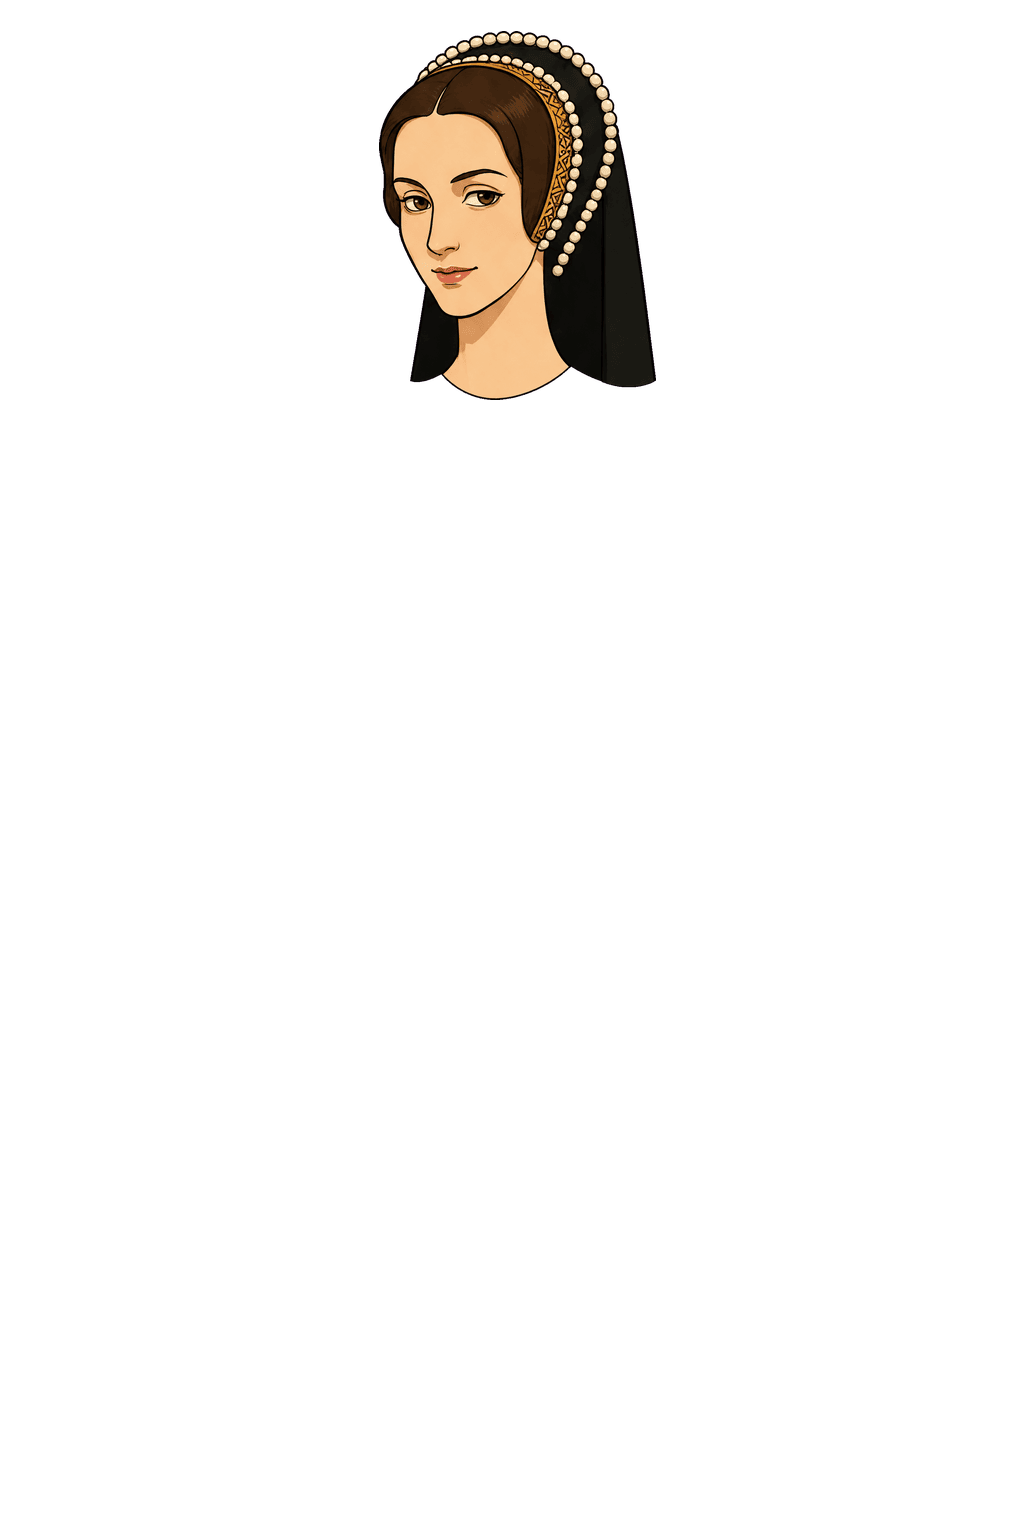
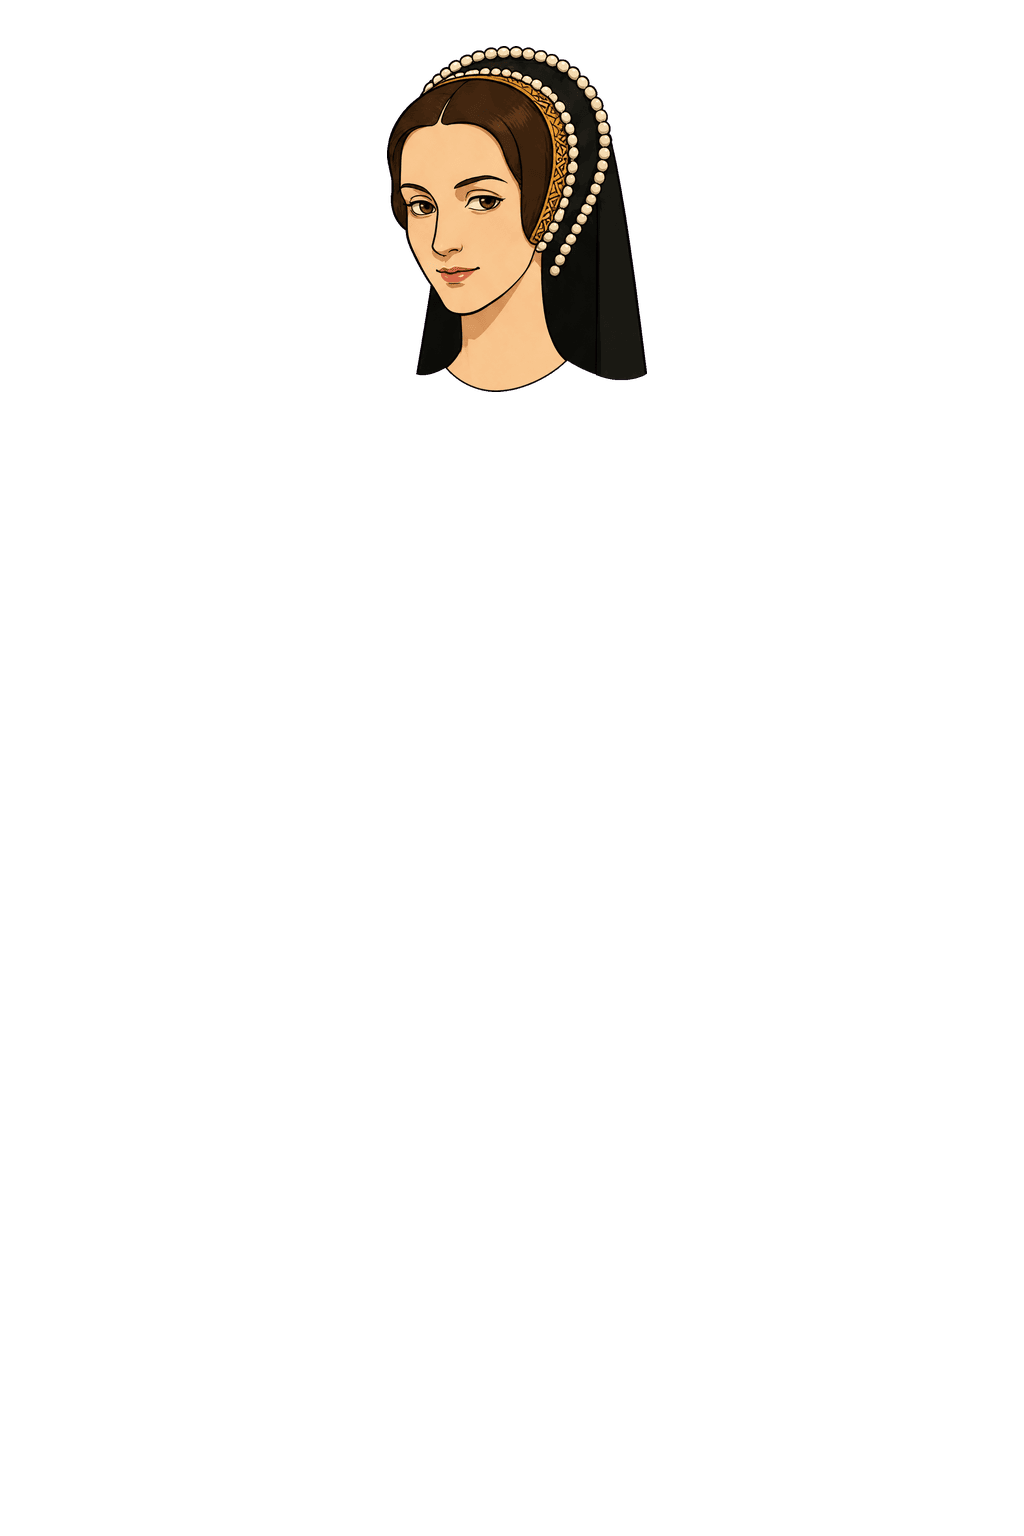
fix(story): 雙人同框不重疊、sprite 放大、安妮頭身比與湯瑪士左臂微調
sprite 幾何全面改以 .scene 容器百分比定位：原本用 vw 定寬定位，
但 .scene 鎖 max-width 480px，寬螢幕上兩個 sprite 會擠進場景中央
重疊。單人放大為 72% 寬；雙人（:has(+ .sprite) 與 + .sprite）縮為
58% 並以 -10% 靠邊；.scene 加 overflow: hidden 防止靠邊 overshoot
撐寬行動端 layout viewport。素材端微調安妮 head（0.225 高、下移）
與湯瑪士 left-arm（上移內收接肩）。CONTENT_VERSION bump 到 3。
headless Chrome 驗證單人/雙人於 500 與 1200 視窗皆正確。

Changed region(s): [[0.375, 0.0, 0.625, 0.2812], [0.5312, 0.1875, 0.6562, 0.25]]

diff --git a/story/src/styles/character.css b/story/src/styles/character.css
@@ -1,13 +1,13 @@
 .sprite {
   position: absolute;
   bottom: 0;
-  /* Registered layers letterbox inside this box (contain, bottom-anchored),
-     so the visible figure height is min(height, width * 1.5) — the box is
-     wider than the old cutout-box layout to keep the figure a similar size. */
-  width: 56vw;
-  max-width: 360px;
-  height: 60vh;
-  max-height: 480px;
+  /* Size and offsets are percentages of .scene, never viewport units: .scene
+     is capped at 480px, so vw-based geometry drifts apart from it on wide
+     screens (two fixed-width sprites then pile up in the middle). Registered
+     layers letterbox inside this box (contain, bottom-anchored), so the
+     visible figure height is min(height, width * 1.5). */
+  width: 72%;
+  height: 66%;
   animation: fade-slide-in 0.6s ease-out both;
   /* Purely decorative: being position:absolute, this box paints above the
      non-positioned .text-card/.choice-list regardless of DOM order, so
@@ -16,8 +16,19 @@
   pointer-events: none;
 }
 
+/* Two characters on stage: shrink both so they can share the width. The
+   sprites are consecutive first children of .scene, so `:has(+ .sprite)`
+   matches the first of a pair and `+ .sprite` the second. */
+.sprite:has(+ .sprite),
+.sprite + .sprite {
+  width: 58%;
+  height: 60%;
+}
+
+/* The registered canvas has transparent side margins (the figure fills only
+   its middle), so left/right anchors overshoot the edge to visually hug it. */
 .sprite--left {
-  left: 2vw;
+  left: -10%;
 }
 
 .sprite--center {
@@ -28,7 +39,7 @@
 }
 
 .sprite--right {
-  right: 2vw;
+  right: -10%;
 }
 
 /* Every part PNG is a registered layer: the same 1024x1536 canvas as the

diff --git a/story/src/data/loadScript.ts b/story/src/data/loadScript.ts
@@ -4,7 +4,7 @@ import { validateScript, type Script } from '../engine/schema'
    is regenerated), so bump this whenever deployed content changes shape in a
    way stale caches would break — the query string busts every client cache
    at the next JS deploy. */
-const CONTENT_VERSION = '2'
+const CONTENT_VERSION = '3'
 
 export async function loadScript(slug: string): Promise<Script> {
   const res = await fetch(`/content/${slug}/script.json?v=${CONTENT_VERSION}`)

diff --git a/story/src/styles/play.css b/story/src/styles/play.css
@@ -1,5 +1,9 @@
 .scene {
   position: relative;
+  /* Edge-hugging sprites overshoot the scene box (left/right: -10%); without
+     clipping, that overflow widens the mobile layout viewport and the whole
+     page zooms out. */
+  overflow: hidden;
   width: 100%;
   max-width: 480px;
   margin: 0 auto;
